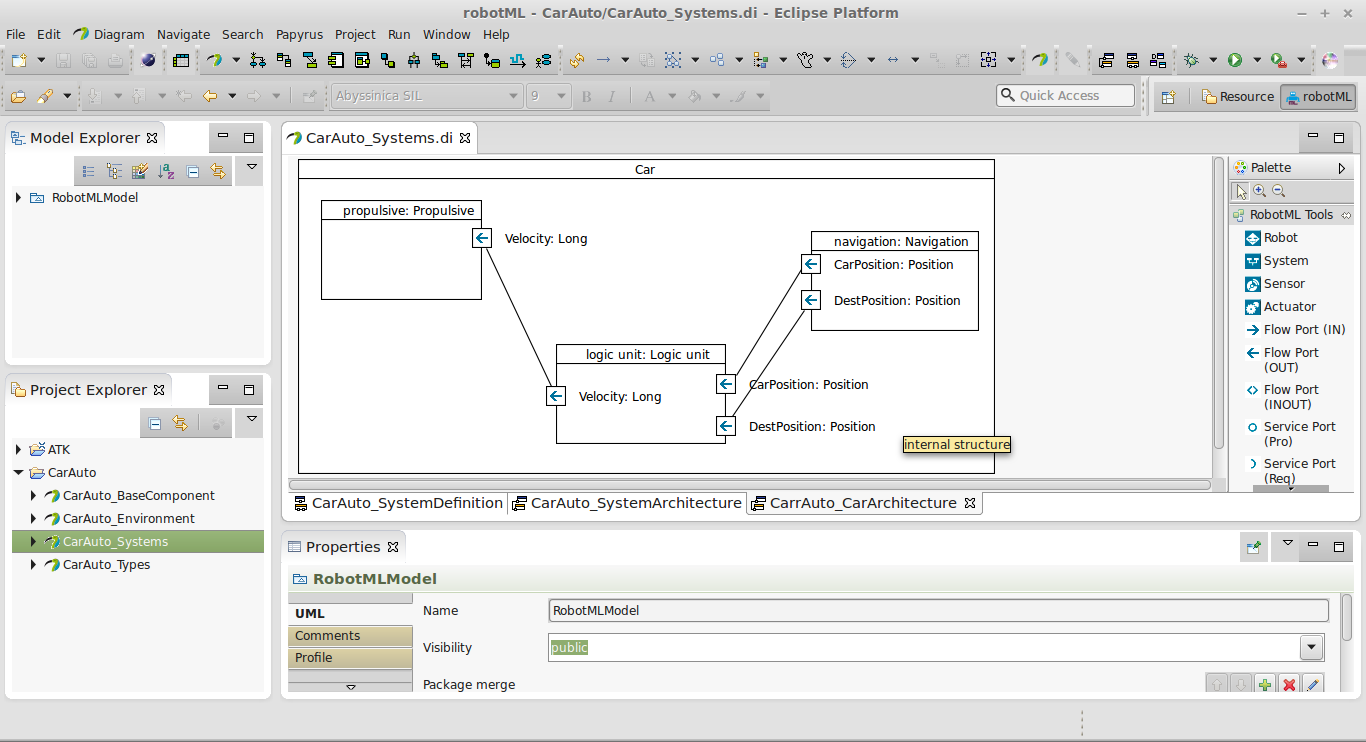
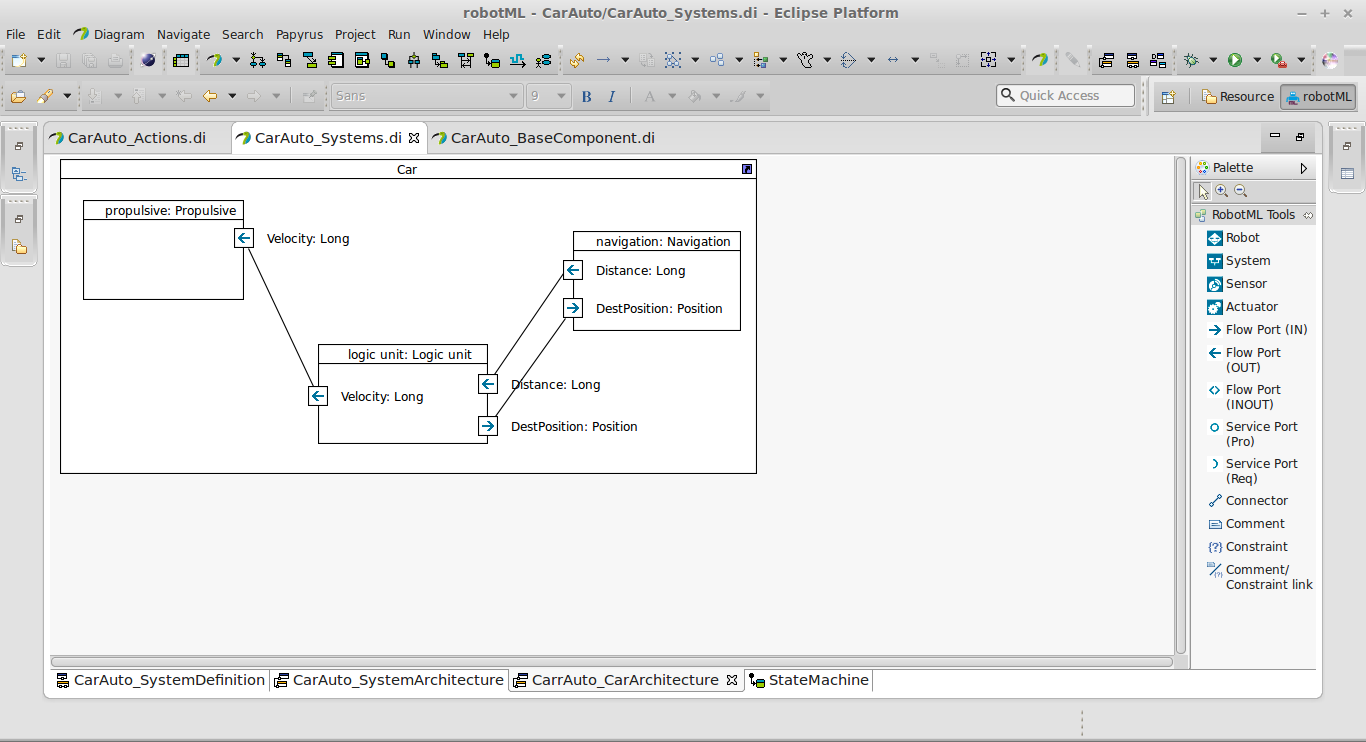
Update documentation to correct an inconsistency in the model

diff --git a/HowToUseRobotML/tutorial/proposeSolution.rst b/HowToUseRobotML/tutorial/proposeSolution.rst
@@ -164,8 +164,13 @@ Expand the current profil, and put the direction as *in* and the type as *Long*.
 +--------------------+--------------+----------------+-----------+
 | GPS                | CurPosition  | out            | Position  |
 +--------------------+--------------+----------------+-----------+
-| Cartography module | DestPosition | out            | Position  |
+| Cartography module | CarPosition  | in             | Position  |
 +--------------------+--------------+----------------+-----------+
+|                    | DestPosition | in             | Position  |
++--------------------+--------------+----------------+-----------+
+|                    | Distance     | out            | Long      |
++--------------------+--------------+----------------+-----------+
+
 
 Create the dataflow port for all component.
  
@@ -182,17 +187,17 @@ Open the *CarAuto_Systems* project and open the *Component definition diagram*. 
 +------------+--------------+----------------+-----------+
 | Component  | Port name    | Port direction | Port type |
 +============+==============+================+===========+
-| Navigation | CarPosition  | out            | Position  |
+| Navigation | DestPosition | in             | Position  |
 +------------+--------------+----------------+-----------+
-| Navigation | DestPosition | out            | Position  |
-+------------+--------------+----------------+-----------+
-| Propulsive | Velocity     | in             | Long      |
+|            | Distance     | out            | Long      |
 +------------+--------------+----------------+-----------+
 | Logic unit | Velocity     | out            | Long      |
 +------------+--------------+----------------+-----------+
-| Logic unit | CarPosition  | in             | Position  |
+|            | DestPosition | out            | Position  |
 +------------+--------------+----------------+-----------+
-| Logic unit | DestPosition | in             | Position  |
+|            | Distance     | in             | Long      |
++------------+--------------+----------------+-----------+
+| Propulsive | Velocity     | in             | Long      |
 +------------+--------------+----------------+-----------+
  
 
@@ -203,7 +208,8 @@ Open the *CarAuto_Systems* project and open the *Component definition diagram*. 
 
 Now we should link the component's communication port. Open the *CarAuto_SystemArchitecture* diagram and select the connector tool from the right tools menu. Connect the differents system in this order:
 
-- *Navigation/CarPosition* port to *Naviagtion/GPS/CurPosition* port,
+- *GPS/CurPosition* port to *Navigation/Cartography module/CarPosition* port,
+- *Navigation/Distance* port to *Navigation/Cartography module/DestPosition* port,
 - *Navigation/DestPosition* port to *Navigation/Cartography module/DestPosition* port,
 - *Propulsive/Velocity* port to *Propulisve/Engine/Velocity* port.
 
@@ -214,7 +220,7 @@ Now we should link the component's communication port. Open the *CarAuto_SystemA
 
 Do the operation on the car's system. Open the *CarAuto_CarArchiecture* diagram, and connect the following systems between us:
 
-- *Navigation/CarPosition* port to *Logic unit/CarPosition* port,
+- *Navigation/Distance* port to *Logic unit/Distance* port,
 - *Navigation/DestPosition* port to *Logic unit/DestPosition* port,
 - *Logic unit/Velocity* port to *Propulsive/Velocity* port.
 
@@ -255,12 +261,15 @@ From the *Component menu* select the *Operation* component and drag it in the *A
 | applySpeed      | speed          | in        |
 +-----------------+----------------+-----------+
 | processToMap    | carPosition    | in        |
++-----------------+----------------+-----------+
 |                 | destPosition   | in        |
++-----------------+----------------+-----------+
 |                 | command        | out       |
 +-----------------+----------------+-----------+
 | currentPosition | carPosition    | out       |
 +-----------------+----------------+-----------+
 | updateSpeed     | speedLogicunit | in        |
++-----------------+----------------+-----------+
 |                 | speedEngine    | out       |
 +-----------------+----------------+-----------+
 | updatePosition  | carPosition    | out       |
